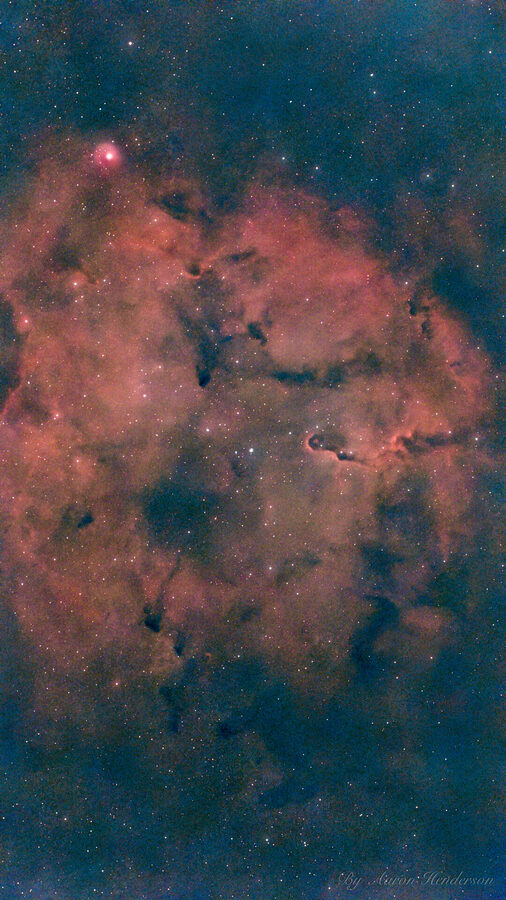
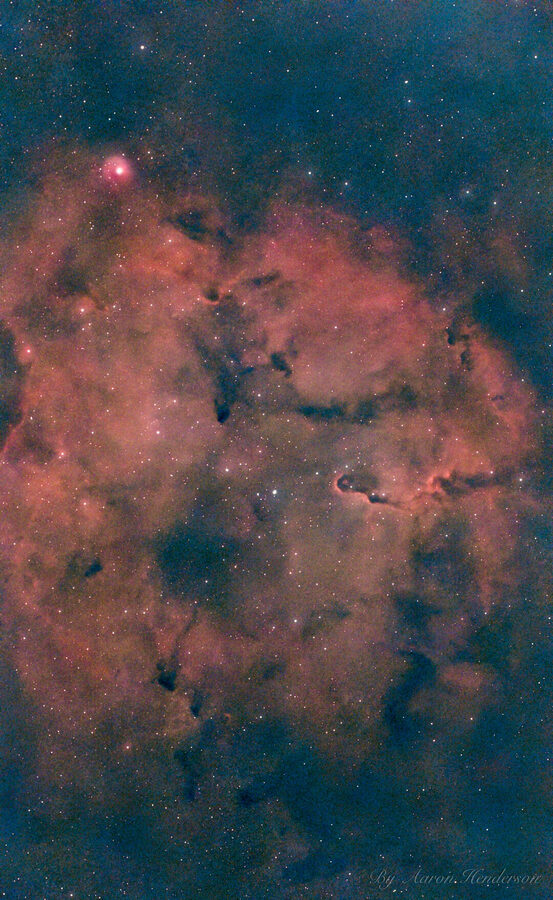
Update gallery

diff --git a/data/images/ic-2026-10-07.md b/data/images/ic-2026-10-07.md
@@ -27,11 +27,16 @@ event_type:
 tags: [Nebula]
 license: CC BY-NC 4.0
 master: "/Volumes/Starfish_Backup/scratch-2026-10-08/seestar-s30-pro/deep-sky/ic-1396/2026-10-07/Enhanced_Stacked_77_IC 1396_60.0s_LP_20261007-230053.png"
+crop: "0.0000,0.0000,1.0000,0.9149"
 ---
 
-**IC 1396** is a large emission nebulae, a region of ionized gas, located in the constellation Cepheus about 2,400 light years away from Earth. It has areas of proto-planetary disk formations in the "Elephants Trunk region" see citation below for more information.[1]
+IC 1396 is a large emission nebulae, a region of ionized gas, located in the constellation Cepheus about 2,400 light years away from Earth. It has areas of proto-planetary disk formations in the "Elephants Trunk region" see citation below for more information.[1]
 
-IC 1396 is illuminated and ionized by a very bright, massive multiple star HD 206267 at its center, except for dense globules that can protect themselves from the star's harsh ultraviolet rays. This hierarchical triple star system has two members that form a spectroscopic binary that orbit each other with a period of 3.7 days, while a third member lies further away—it is unclear whether this third member is gravitationally bound to the pair. The system is emitting a stellar wind that reaches an exceptional velocity of 3,225 km/s, among the highest measured for stars of this type.
+IC 1396 and Mu Cephei — Herschel's Garnet Star
+Located in the constellation Cepheus, ++IC 1396++ is a vast emission nebula and active stellar nursery approximately 2,400 light-years from Earth. Its glowing hydrogen clouds are illuminated by massive young stars, while dense regions of gas and dust, including the famous Elephant's Trunk Nebula, continue to give birth to new stars. ++NASA observations++ and ++astronomical research++++[1]++ have revealed young protostars embedded within these clouds.
+Appearing near IC 1396 in our sky is the magnificent ++Mu Cephei (μ Cephei)++, famously known as Herschel's Garnet Starfor its striking reddish-orange color. Located approximately 1,307 light-years from Earth, this enormous red supergiant is one of the largest stars visible to the naked eye, with an estimated radius over 1,000 times that of our Sun, although estimates vary. Mu Cephei is also a semiregular variable star whose brightness changes as its vast outer atmosphere pulsates.
+Although they appear close together in the night sky, Mu Cephei lies considerably closer to Earth than IC 1396 and is not physically part of the nebula. Together, they offer a fascinating contrast between the birth of new stars within IC 1396 and the late evolutionary stages of Mu Cephei, a massive stellar giant that may eventually end its life as a supernova.
+
 
 [1]What’s Behind the Elephant’s Trunk? Identifying Young Stellar Objects on the Outskirts
 of IC 1396
